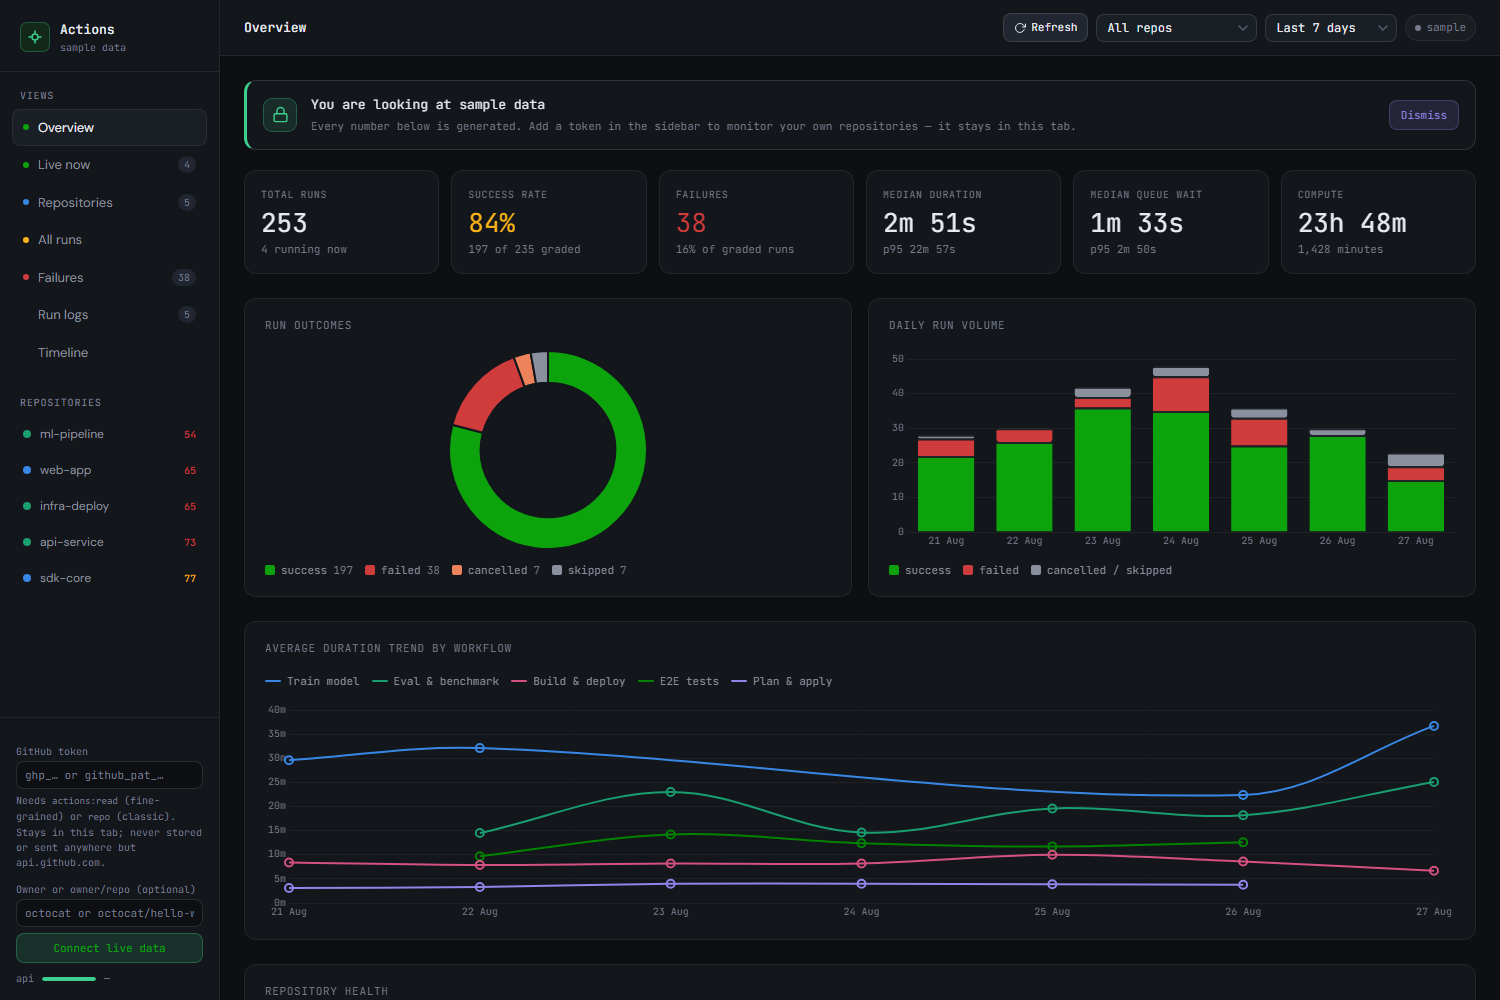
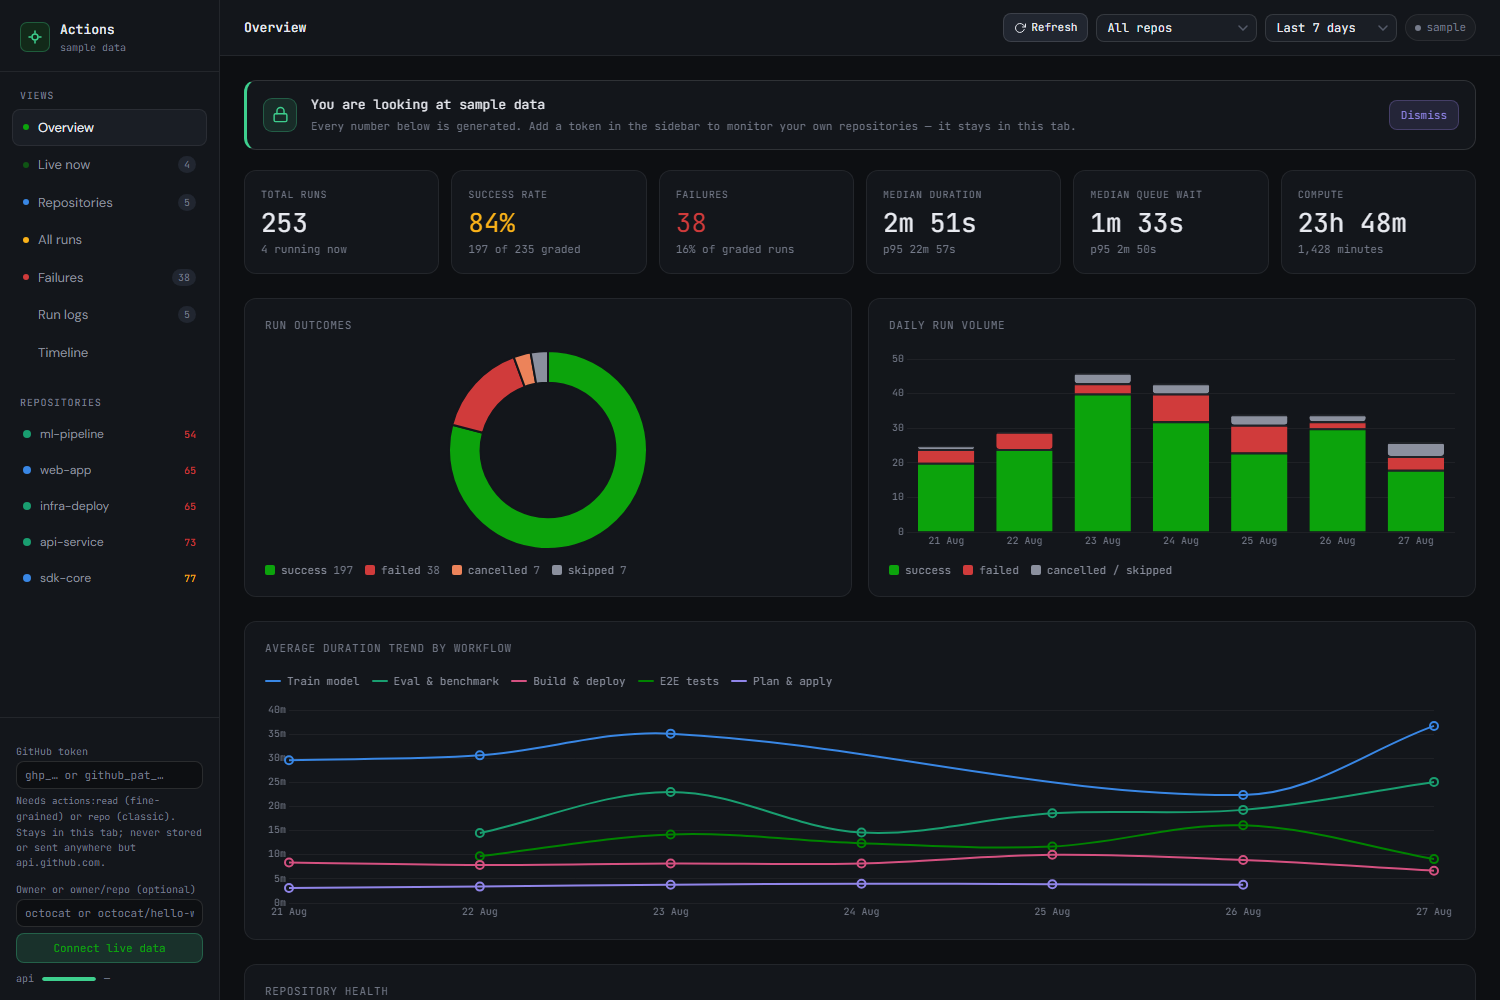
Show the data that was loaded instead of an empty 7-day window
Reported: after updating the token, still no data or charts. The token was
never the problem. The sync succeeded — the status line read "3 repos · 75
runs" and the toast said "Connected 75 runs across 3 repositories" — and then
the dashboard reported "no data", because it opens on a 7-day window and the
most recent run was 12 days old. 75 runs were fetched and then filtered out of
view by a default nobody chose and nothing mentioned.

Reproduced end to end against a mocked API whose newest run is 12, 45 and 200
days old.

- syncAll now fetches 90 days rather than 30, so the widest window the UI
  offers is actually populated. This costs nothing: the per-repo page limit is
  what bounds the request count, not the date range.
- On connect, the window widens to the smallest preset that contains runs, and
  a toast says why and how old the newest run is.
- The empty state no longer just says "no data". It names how many runs are
  loaded, how stale the newest is, whether a repository filter is narrowing it,
  and offers a button to widen — so an empty view is never mistaken for a
  broken one.

Adds fitWindow() and newestTimestamp() with tests, plus a regression test for
the empty-state message. 96 tests pass.

Claude-Session: https://claude.ai/code/session_01LgTTZA6QpLq6dvkm9uM37q

diff --git a/index.html b/index.html
@@ -2394,7 +2394,7 @@ tr.run-row:hover .logs-cue { color: var(--purple); }
 
     <div class="toast-stack" id="toastStack" aria-live="polite" aria-atomic="false"></div>
     <div class="sr-only" id="liveAnnouncer" role="status" aria-live="polite"></div>
-    <!-- generated by build.mjs from src/ — do not edit; bundle dc481aaf3f6b -->
+    <!-- generated by build.mjs from src/ — do not edit; bundle d5e75f4893cc -->
 
     <script>
 'use strict';
@@ -2425,7 +2425,7 @@ const { GitHubClient, GitHubError, RateLimitError } = __req("data/github");
 const { $$, byId, delegate, html, setHtml, setText } = __req("lib/dom");
 const { fmtNumber, repoShortName, timeAgo } = __req("lib/format");
 const { entityColor, healthTone } = __req("lib/palette");
-const { Store, hashToState, selectRuns, stateToHash } = __req("lib/store");
+const { Store, fitWindow, hashToState, newestTimestamp, selectRuns, stateToHash } = __req("lib/store");
 const { destroyAll, initChartDefaults } = __req("ui/charts");
 const { viewError } = __req("ui/components");
 const { closeModal } = __req("ui/modal");
@@ -2512,6 +2512,8 @@ function rebuildIndex() {
     .filter((run) => run.status === 'in_progress')
     .filter((run) => store.state.repo === 'all' || run.repo === store.state.repo);
   ctx.catalogue = buildCatalogue(store.state.runs);
+  ctx.loadedRuns = store.state.runs.length;
+  ctx.newestRunTs = newestTimestamp(store.state.runs);
 }
 
 /**
@@ -2734,7 +2736,7 @@ async function connect(token, owner) {
     const result = await withDeadline(
       syncAll(client, {
         owner,
-        days: 30,
+        days: 90,
         pages: 2,
         onProgress: showSyncProgress,
       }),
@@ -2777,6 +2779,19 @@ async function connect(token, owner) {
     button.textContent = 'Connected';
 
     setText('connectStatus', `${repos.length} repos · ${fmtNumber(runs.length)} runs`);
+
+    const requested = store.state.days;
+    const fitted = fitWindow(runs, requested);
+    if (fitted !== requested) {
+      store.set({ days: fitted });
+      toast({
+        kind: 'info',
+        title: `Widened the window to ${fitted} days`,
+        body: `Nothing ran in the last ${requested} days. Your most recent run was ${timeAgo(newestTimestamp(runs))}.`,
+        timeout: 12_000,
+      });
+    }
+
     toast({
       kind: 'success',
       title: 'Connected',
@@ -2850,7 +2865,7 @@ async function refreshAll() {
     const result = await withDeadline(
       syncAll(ctx.client, {
         owner: store.state.owner,
-        days: 30,
+        days: 90,
         pages: 2,
         onProgress: showSyncProgress,
       }),
@@ -2986,6 +3001,10 @@ function wire() {
     const key = `${el.getAttribute('data-container')}:${el.getAttribute('data-repo-toggle')}`;
     ctx.expanded[key] = !ctx.expanded[key];
     render();
+  });
+
+  delegate(document, 'click', '[data-action="widen-window"]', (_event, el) => {
+    store.set({ days: Number(el.getAttribute('data-days')) });
   });
 
   delegate(document, 'click', '[data-action="show-more-runs"]', () => {
@@ -4917,7 +4936,10 @@ Object.defineProperties(__exports, {
   "Store": { get: function () { return Store; }, enumerable: true },
   "stateToHash": { get: function () { return stateToHash; }, enumerable: true },
   "hashToState": { get: function () { return hashToState; }, enumerable: true },
-  "selectRuns": { get: function () { return selectRuns; }, enumerable: true }
+  "selectRuns": { get: function () { return selectRuns; }, enumerable: true },
+  "WINDOW_PRESETS": { get: function () { return WINDOW_PRESETS; }, enumerable: true },
+  "fitWindow": { get: function () { return fitWindow; }, enumerable: true },
+  "newestTimestamp": { get: function () { return newestTimestamp; }, enumerable: true }
 });
 // Application state.
 //
@@ -5055,6 +5077,29 @@ function clampDays(value) {
 function selectRuns(runs, { days, repo }, now = Date.now()) {
   const cutoff = now - days * 86400000;
   return runs.filter((run) => run.ts >= cutoff && (repo === 'all' || run.repo === repo));
+}
+
+const WINDOW_PRESETS = [1, 7, 14, 30, 90];
+
+/**
+ * The smallest window that actually contains runs.
+ *
+ * The dashboard fetches months of history but opens on a 7-day view. A
+ * repository whose last build was a fortnight ago therefore loaded fine and
+ * then rendered as "no data" — which reads as "your CI is empty" or "this is
+ * broken", when the truth is only that the default window is too narrow.
+ */
+function fitWindow(runs, current = DEFAULT_STATE.days, now = Date.now()) {
+  if (!runs.length) return current;
+  const newest = runs.reduce((max, run) => (run.ts > max ? run.ts : max), 0);
+  const ageDays = (now - newest) / 86400000;
+  if (ageDays <= current) return current;
+  return WINDOW_PRESETS.find((days) => days >= ageDays) || WINDOW_PRESETS[WINDOW_PRESETS.length - 1];
+}
+
+/** Newest run timestamp, without spreading a large array into Math.max. */
+function newestTimestamp(runs) {
+  return runs.reduce((max, run) => (run.ts > max ? run.ts : max), 0) || null;
 }
 
 });
@@ -6389,6 +6434,7 @@ const { activityMatrix, categorizeFailure, dailyBuckets, sparkline, topBy, weekl
 
 
 const { html, raw, setHtml, setText } = __req("lib/dom");
+const { fitWindow } = __req("lib/store");
 const { fmtComputeMinutes, fmtDuration, fmtNumber, repoShortName, timeAgo, toMinutes, truncate } = __req("lib/format");
 
 
@@ -6442,13 +6488,34 @@ function renderOverview(ctx) {
 
 /* ------------------------------------------------------------------ metrics */
 
-function renderMetrics({ index }) {
+function renderMetrics({ index, state, loadedRuns, newestRunTs }) {
   const o = index.overall;
   if (!o.total) {
-    setHtml('metricsRow', html`<div class="metric-card" style="grid-column:1/-1;">
-      <div class="metric-label">no data</div>
-      <div class="metric-sub">No runs found for the selected period.</div>
-    </div>`);
+    // "no data" on its own reads as "your CI is empty" or "this is broken". If
+    // runs were loaded and the window simply excludes them, say exactly that —
+    // and offer the fix, rather than leaving the reader to guess.
+    const hasOlder = Boolean(loadedRuns) && Boolean(newestRunTs);
+    const wider = hasOlder ? fitWindow([{ ts: newestRunTs }], state.days) : null;
+
+    setHtml('metricsRow', html`
+      <div class="metric-card" style="grid-column:1/-1;">
+        <div class="metric-label">no runs in the last ${state.days} day${state.days === 1 ? '' : 's'}</div>
+        ${hasOlder
+          ? html`
+            <div class="metric-sub" style="margin-top:6px;">
+              ${fmtNumber(loadedRuns)} run${loadedRuns === 1 ? '' : 's'} loaded${state.repo === 'all' ? '' : ` (filtered to ${state.repo})`} ·
+              most recent was ${timeAgo(newestRunTs)}
+            </div>
+            ${wider && wider !== state.days
+              ? html`<button class="logs-btn" type="button" data-action="widen-window" data-days="${wider}"
+                  style="margin-top:10px;">Show the last ${wider} days</button>`
+              : ''}
+          `
+          : html`<div class="metric-sub" style="margin-top:6px;">
+              Nothing has been loaded yet. Connect a token, or widen the time range.
+            </div>`}
+      </div>
+    `);
     setText('nav-fail-count', '0');
     return;
   }

diff --git a/src/js/app.js b/src/js/app.js
@@ -7,7 +7,7 @@ import { GitHubClient, GitHubError, RateLimitError } from './data/github.js';
 import { $$, byId, delegate, html, setHtml, setText } from './lib/dom.js';
 import { fmtNumber, repoShortName, timeAgo } from './lib/format.js';
 import { entityColor, healthTone } from './lib/palette.js';
-import { Store, hashToState, selectRuns, stateToHash } from './lib/store.js';
+import { Store, fitWindow, hashToState, newestTimestamp, selectRuns, stateToHash } from './lib/store.js';
 import { destroyAll, initChartDefaults } from './ui/charts.js';
 import { viewError } from './ui/components.js';
 import { closeModal } from './ui/modal.js';
@@ -94,6 +94,8 @@ function rebuildIndex() {
     .filter((run) => run.status === 'in_progress')
     .filter((run) => store.state.repo === 'all' || run.repo === store.state.repo);
   ctx.catalogue = buildCatalogue(store.state.runs);
+  ctx.loadedRuns = store.state.runs.length;
+  ctx.newestRunTs = newestTimestamp(store.state.runs);
 }
 
 /**
@@ -316,7 +318,7 @@ async function connect(token, owner) {
     const result = await withDeadline(
       syncAll(client, {
         owner,
-        days: 30,
+        days: 90,
         pages: 2,
         onProgress: showSyncProgress,
       }),
@@ -359,6 +361,19 @@ async function connect(token, owner) {
     button.textContent = 'Connected';
 
     setText('connectStatus', `${repos.length} repos · ${fmtNumber(runs.length)} runs`);
+
+    const requested = store.state.days;
+    const fitted = fitWindow(runs, requested);
+    if (fitted !== requested) {
+      store.set({ days: fitted });
+      toast({
+        kind: 'info',
+        title: `Widened the window to ${fitted} days`,
+        body: `Nothing ran in the last ${requested} days. Your most recent run was ${timeAgo(newestTimestamp(runs))}.`,
+        timeout: 12_000,
+      });
+    }
+
     toast({
       kind: 'success',
       title: 'Connected',
@@ -432,7 +447,7 @@ async function refreshAll() {
     const result = await withDeadline(
       syncAll(ctx.client, {
         owner: store.state.owner,
-        days: 30,
+        days: 90,
         pages: 2,
         onProgress: showSyncProgress,
       }),
@@ -568,6 +583,10 @@ function wire() {
     const key = `${el.getAttribute('data-container')}:${el.getAttribute('data-repo-toggle')}`;
     ctx.expanded[key] = !ctx.expanded[key];
     render();
+  });
+
+  delegate(document, 'click', '[data-action="widen-window"]', (_event, el) => {
+    store.set({ days: Number(el.getAttribute('data-days')) });
   });
 
   delegate(document, 'click', '[data-action="show-more-runs"]', () => {

diff --git a/src/js/views/overview.js b/src/js/views/overview.js
@@ -7,6 +7,7 @@ import {
   weeklyQueueSplit,
 } from '../data/analytics.js';
 import { html, raw, setHtml, setText } from '../lib/dom.js';
+import { fitWindow } from '../lib/store.js';
 import {
   fmtComputeMinutes,
   fmtDuration,
@@ -60,13 +61,34 @@ export function renderOverview(ctx) {
 
 /* ------------------------------------------------------------------ metrics */
 
-function renderMetrics({ index }) {
+function renderMetrics({ index, state, loadedRuns, newestRunTs }) {
   const o = index.overall;
   if (!o.total) {
-    setHtml('metricsRow', html`<div class="metric-card" style="grid-column:1/-1;">
-      <div class="metric-label">no data</div>
-      <div class="metric-sub">No runs found for the selected period.</div>
-    </div>`);
+    // "no data" on its own reads as "your CI is empty" or "this is broken". If
+    // runs were loaded and the window simply excludes them, say exactly that —
+    // and offer the fix, rather than leaving the reader to guess.
+    const hasOlder = Boolean(loadedRuns) && Boolean(newestRunTs);
+    const wider = hasOlder ? fitWindow([{ ts: newestRunTs }], state.days) : null;
+
+    setHtml('metricsRow', html`
+      <div class="metric-card" style="grid-column:1/-1;">
+        <div class="metric-label">no runs in the last ${state.days} day${state.days === 1 ? '' : 's'}</div>
+        ${hasOlder
+          ? html`
+            <div class="metric-sub" style="margin-top:6px;">
+              ${fmtNumber(loadedRuns)} run${loadedRuns === 1 ? '' : 's'} loaded${state.repo === 'all' ? '' : ` (filtered to ${state.repo})`} ·
+              most recent was ${timeAgo(newestRunTs)}
+            </div>
+            ${wider && wider !== state.days
+              ? html`<button class="logs-btn" type="button" data-action="widen-window" data-days="${wider}"
+                  style="margin-top:10px;">Show the last ${wider} days</button>`
+              : ''}
+          `
+          : html`<div class="metric-sub" style="margin-top:6px;">
+              Nothing has been loaded yet. Connect a token, or widen the time range.
+            </div>`}
+      </div>
+    `);
     setText('nav-fail-count', '0');
     return;
   }

diff --git a/src/js/lib/store.js b/src/js/lib/store.js
@@ -135,3 +135,26 @@ export function selectRuns(runs, { days, repo }, now = Date.now()) {
   const cutoff = now - days * 86400000;
   return runs.filter((run) => run.ts >= cutoff && (repo === 'all' || run.repo === repo));
 }
+
+export const WINDOW_PRESETS = [1, 7, 14, 30, 90];
+
+/**
+ * The smallest window that actually contains runs.
+ *
+ * The dashboard fetches months of history but opens on a 7-day view. A
+ * repository whose last build was a fortnight ago therefore loaded fine and
+ * then rendered as "no data" — which reads as "your CI is empty" or "this is
+ * broken", when the truth is only that the default window is too narrow.
+ */
+export function fitWindow(runs, current = DEFAULT_STATE.days, now = Date.now()) {
+  if (!runs.length) return current;
+  const newest = runs.reduce((max, run) => (run.ts > max ? run.ts : max), 0);
+  const ageDays = (now - newest) / 86400000;
+  if (ageDays <= current) return current;
+  return WINDOW_PRESETS.find((days) => days >= ageDays) || WINDOW_PRESETS[WINDOW_PRESETS.length - 1];
+}
+
+/** Newest run timestamp, without spreading a large array into Math.max. */
+export function newestTimestamp(runs) {
+  return runs.reduce((max, run) => (run.ts > max ? run.ts : max), 0) || null;
+}

diff --git a/README.md b/README.md
@@ -100,7 +100,7 @@ src/js/views/           overview, live, repos, runs, failures, timeline, logs
 ```bash
 npm install       # jsdom, for the DOM smoke tests — nothing ships to the browser
 npm run build     # src/ -> index.html
-npm test          # 92 tests: units, security, build, and a real-DOM smoke suite
+npm test          # 96 tests: units, security, build, and a real-DOM smoke suite
 npm run check     # fail if index.html has drifted from src/
 ```
 
@@ -138,6 +138,13 @@ subtly broken output.
 ## Design notes
 
 A few decisions that are easy to get wrong:
+
+**The window follows the data.** The dashboard fetches 90 days of history but
+opens on a 7-day view. If nothing ran in that week, it widens to the smallest
+range that actually contains your runs and says so — rather than reporting
+"no data" for an account whose last build was a fortnight ago. Where even the
+widest range is empty, the empty state says how many runs are loaded and how old
+the newest one is.
 
 **Success rate excludes cancelled and skipped runs.** A repo with a
 concurrency-cancel policy cancels runs constantly; counting those as failures
